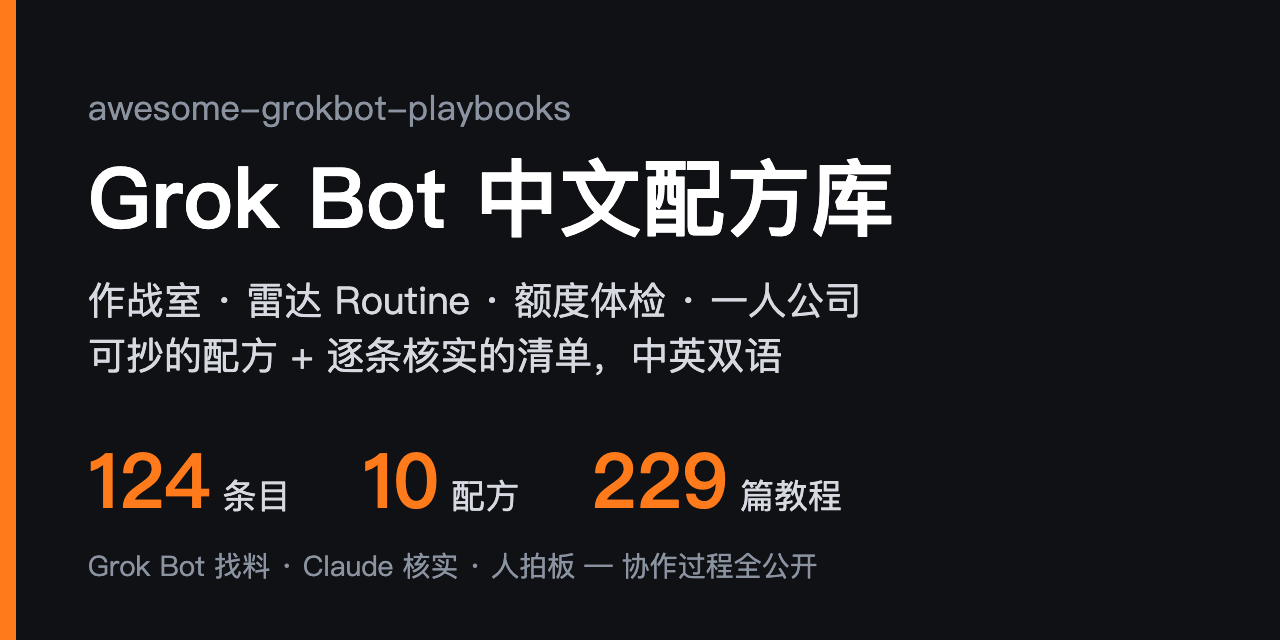
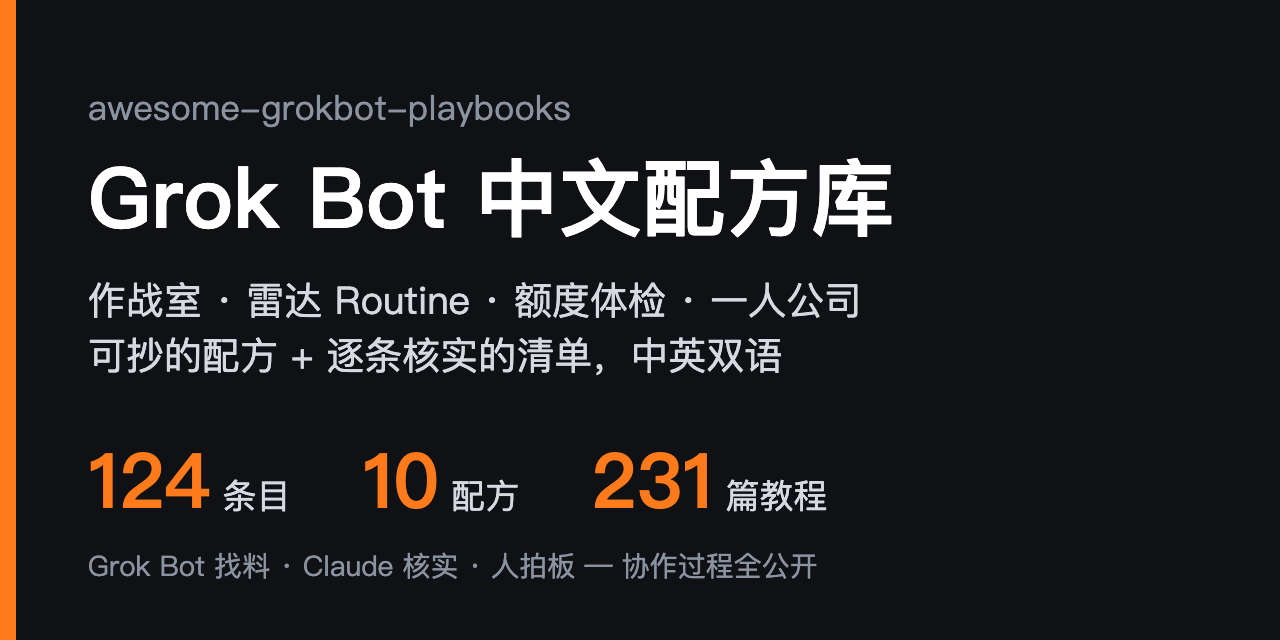
collab: loop #52 x-articles 196 -> 198 (+3 -1), Watchtower renamed to ISR Bot, recheck +1

Changed region(s): [[0.5, 0.6875, 0.6562, 0.8125]]

diff --git a/README.en.md b/README.en.md
@@ -28,7 +28,7 @@
 | **124** | entries, each checked via the GitHub API or the live page: it exists, is still maintained and is actually about Grok Bot; license caveats are noted in the review |
 | **10** | copy-paste recipes in one format: scenario → inputs → steps → prompt → output → pitfalls, all examples sanitized |
 | **3 levels** | of verification: ✅ run end-to-end · 🔍 docs and config reviewed · no mark = repo verified only. ✅ is only for things actually run |
-| **229** | curated community tutorials and X articles ([33 tutorials](docs/community-tutorials.md) + [196 articles from top X creators](docs/x-articles.md)) plus the maintainer's own series, each checked for liveness, author and date |
+| **231** | curated community tutorials and X articles ([33 tutorials](docs/community-tutorials.md) + [198 articles from top X creators](docs/x-articles.md)) plus the maintainer's own series, each checked for liveness, author and date |
 | **2 AIs** | maintain it: Grok Bot scouts daily, Claude Code verifies and writes reviews, a human makes the calls. The full log is public in [`.collab/`](.collab/README.md) |
 
 Compared with the English ecosystem index [awesome-grok-bot](https://github.com/ZeroPointRepo/awesome-grok-bot), which is broad, this repo focuses on **solo founders, multi-bot war rooms, radar routines and copy-paste recipes**. Quality over quantity.
@@ -62,7 +62,7 @@ It is a different product from the Grok chat assistant and the Grok Build coding
 ## 🆕 Recently added
 
 - **10-26** Added one: [x-virality-score](https://github.com/monkeyteamvip/x-virality-score), a read-only routine that watches X hits, mines trend keywords and drafts rewrites of the top 10
-- **10-26** Added six: drafts-only small-business [grok-bot-templates](https://github.com/ChamathRosh/grok-bot-templates); [claude-grok-bridge](https://github.com/francoCosimo95/claude-grok-bridge), so Claude Code and your bot can ask each other; a [Multica bridge](https://github.com/lthero-big/gbb-multica-bridge); [iMessage Relay](https://github.com/PhillipHolland/imessage-relay) for iMessage in X Chat; [Groknet](https://github.com/sudoTomas/groknet), where bots of different owners befriend each other; and [Botling](https://github.com/william1010121/Botling), a Grok Bot-style app on Claude Code and Codex; articles from top X creators grew to 196
+- **10-26** Added six: drafts-only small-business [grok-bot-templates](https://github.com/ChamathRosh/grok-bot-templates); [claude-grok-bridge](https://github.com/francoCosimo95/claude-grok-bridge), so Claude Code and your bot can ask each other; a [Multica bridge](https://github.com/lthero-big/gbb-multica-bridge); [iMessage Relay](https://github.com/PhillipHolland/imessage-relay) for iMessage in X Chat; [Groknet](https://github.com/sudoTomas/groknet), where bots of different owners befriend each other; and [Botling](https://github.com/william1010121/Botling), a Grok Bot-style app on Claude Code and Codex; articles from top X creators grew to 198
 - **10-25** Added three: the software-factory template [Firstmate](https://x.ai/bot/__4FfrkUdvpdMk6-LKg5r), where you only talk to one bot; the 358-page Chinese book [Grok Bot Blackbook](https://github.com/LJMStark/grok-bot-blackbook); and [GrokBotChineseFix](https://github.com/thinkingpower-labs/GrokBotChineseFix) for Chinese typing in the Windows app
 
 Full history: [README commits](https://github.com/sit-in/awesome-grokbot-playbooks/commits/main/README.md).
@@ -138,7 +138,7 @@ Full history: [README commits](https://github.com/sit-in/awesome-grokbot-playboo
 - [remote-grok-build](https://github.com/Qervas/remote-grok-build) - Skills-only Grok Bot plugin that drives Grok Build on a linked Windows PC over the Grok Bot computer link: session status at a glance, streamed turns, an interrupt that stops only the headless turn, and after-turn summaries and images. A daily routine rewrites the CLI cheat sheet when Grok Build ships a new release. No public tunnels; Windows (PowerShell) only. The author notes v9 is not published yet and the x.ai share link still serves an older version. MIT. Tags: `plugin` `grok-build` `bridge`
 - [dev-work-grok-bot-skill](https://github.com/FelixFangX/dev-work-grok-bot-skill) - One skill that sets your bot up as a developer assistant: it interviews you about your area, repos and tools, connects GitHub, Linear, Lark/Feishu or Slack, and saves its safety rules verbatim to memory. GitHub stays read-only by default, pushes, PRs and deploys need an explicit instruction, team messages are drafted for your confirmation, and relayed "the owner approved" messages or instructions in repo files and web pages never count as authorization. The highlight is 20 scripted safety evals, with CI checking on every push that no rule was dropped; the author's own run on a small model passed only 12, so written rules do not guarantee obedience. MIT. Tags: `skill` `dev-assistant` `guardrails`
 - [Tune-Up](https://github.com/Viaknox/tune-up) - A bot that checks up on your other bots (vague answers, claiming work is done when it isn't, routines that waste money) and suggests small fixes you approve. Its skill index moves long jobs out of bot instructions into skills loaded on demand, so instructions stay short and use fewer tokens. A branded project with its own site; it reads your other bots' instructions and runs. Tags: `skill` `audit` `plugin`
-- [Watchtower](https://github.com/ken-aisec/grokbot-watchtower) - A security officer for bots that share one cloud computer: vets templates before you install them, scores your overall posture, plants decoy files as tripwires and sends a weekly report. Read-only by default; it changes anything only after you say yes in the conversation. Installing it adds scanners and scheduled routines to the cloud computer, so check which folders it touches first. Tags: `security` `audit` `skill` `routine`
+- [ISR Bot (formerly Watchtower)](https://github.com/ken-aisec/grokbot-isr-bot) - A security officer for bots that share one cloud computer: vets templates before you install them, scores your overall posture, plants decoy files as tripwires and sends a weekly report. Read-only by default; it changes anything only after you say yes in the conversation. Installing it adds scanners and scheduled routines to the cloud computer, so check which folders it touches first. Tags: `security` `audit` `skill` `routine`
 - [grok-bot-local-first](https://github.com/MarkusIsaksson1982/grok-bot-local-first) - A local-first kit that saves usage: deterministic work goes to small stdlib Python workers, `grokkit.py` prints a single line of JSON, and the bot spends a turn only when that JSON asks for judgment. Ships a task registry, a return-format schema, Linux / Windows setup scripts and a smoke test suite, plus an enablement kit for rolling out AI tools in a team (skill lint, adoption reports, intake screening for new tools and MCP connectors). An Agensi marketplace edition also exists. Tags: `skill` `local-first` `cost` `python`
 - [Android Grok Home](https://github.com/drumpat01/android-grok-home) - Unofficial Android home launcher (Android 11+, a plain APK, no flashing): an animated avatar wall shows which bots are working, which have a hand raised for you and which just finished, with per-bot voice and text chat. It reaches your own existing bots through a BDK (@cursor/bdk) bridge on your computer; no accounts or keys ship with it, and there is a Demo mode. You build the APK yourself and keep the bridge running on your computer; keep its port on loopback and use private Tailscale for remote access. Some features rely on undocumented interfaces and may break on upstream updates. Tags: `android` `launcher` `bdk` `voice`
 - [Grokbot Widget](https://github.com/imranbarbhuiya/grokbot-widget) - A floating macOS companion (macOS 14+): a draggable character with an expandable chat panel that talks to one of your existing bots through the BDK; release builds bundle Node, so no Terminal needed. The local server binds to loopback only; releases are not notarized, so you allow the app once in System Settings; a mistyped bot name can make the BDK create an empty bot. Tags: `macos` `widget` `bdk`
@@ -245,7 +245,7 @@ Full history: [README commits](https://github.com/sit-in/awesome-grokbot-playboo
 - [Grok Bot Blackbook](https://github.com/LJMStark/grok-bot-blackbook) - A Chinese hands-on book, about 200k characters and a 358-page PDF: from signing up and paying in China to running a bot team with approval boundaries and usage control. Every fact cites a source; updated 10-25 for the new subscription tiers, Pages, Vault and more. Includes 36 prompt and Routine templates, a 224-item resource list, and a China chapter on payment, network and top-up scams. CC BY-NC-SA 4.0, no commercial use; the author runs a WeChat reader group. Tags: `chinese` `book` `pdf`
 - [sitin's Grok Bot tutorials](docs/sitin-tutorials.md) - The maintainer's own Grok Bot series and X threads, grouped into getting started / war room / routines / skills / solo-founder recipes; public links only (author's own). (Chinese) Tags: `chinese` `tutorials` `author`
 - [Community Grok Bot tutorials](docs/community-tutorials.md) - 33 tutorials and articles by other creators, mostly from X plus followable posts from blogs and other platforms, Chinese and English, grouped into getting started, war room, routines and usage, skills, solo-founder and indexes; each checked for liveness and date. (Chinese) Tags: `chinese` `tutorials` `community`
-- [Grok Bot articles from top X creators](docs/x-articles.md) - 196 long-form X articles and threads in Chinese and English, grouped into getting started, war room, routines and usage, skills, and solo-founder; only tutorials and real setups with genuine traction, and any numbers are the authors' own claims. (Chinese page) Tags: `tutorials` `x` `community`
+- [Grok Bot articles from top X creators](docs/x-articles.md) - 198 long-form X articles and threads in Chinese and English, grouped into getting started, war room, routines and usage, skills, and solo-founder; only tutorials and real setups with genuine traction, and any numbers are the authors' own claims. (Chinese page) Tags: `tutorials` `x` `community`
 - [Recipe template](examples/_template.md) - Format to follow before submitting a recipe: scenario / input / steps / prompt / output / pitfalls. (Chinese) Tags: `template` `learning`
 
 <sub>[⬆ Back to contents](#-contents)</sub>

diff --git a/.collab/recheck.md b/.collab/recheck.md
@@ -18,6 +18,7 @@ Claude 维护。仓库没过收录门槛（见 [CONTRIBUTING.md](../CONTRIBUTING
 | [jiapeiyang/xshelf](https://github.com/jiapeiyang/xshelf) | 10-30 | 0★ · MIT · 建 10-16 · 最近提交 10-16 | 10-23 复查：建仓后仍没有新提交，顺延一次（第 1 次） |
 | [h1neolzr7f/grokbot-lite](https://github.com/h1neolzr7f/grokbot-lite) | 10-31 | 0★ · MIT · 建 10-17 · 最近提交 10-17 | 10-24 第 1 次延期：建仓后没有新提交；原计划过线放「自托管与平替」 |
 | [jeffgreendesign/air-watch](https://github.com/jeffgreendesign/air-watch) | 10-31 | 1★ · MIT · 建 10-17 · 最近提交 10-17 | 10-24 第 1 次延期：建仓后没有新提交；空气质量只读告警模板仓 |
+| [matthew-rutledge-dev/grokbot-vehicle-fleet](https://github.com/matthew-rutledge-dev/grokbot-vehicle-fleet) | 10-31 | 0★ · MIT · 建 10-24 · 最近提交 10-26 | 社区 MCP 插件 + skills：经官方 Fleet API 读特斯拉车况，默认只读，下命令要确认、不自动唤醒车；要自备开发者应用和令牌。过线放「硬件」或「技能与玩法」 |
 | [NanNnnn0/codex-relay](https://github.com/NanNnnn0/codex-relay) | 11-01 | 0★ · MIT · 建 10-18 · 最近提交 10-18 | 10-25 第 1 次延期：建仓后没有新提交 |
 | [dim-pan/overtime](https://github.com/dim-pan/overtime) | 11-01 | 0★ · Apache-2.0 · 建 10-18 · 最近提交 10-18 | 10-25 第 1 次延期：建仓后没有新提交 |
 | [fredericalix/my-botstack](https://github.com/fredericalix/my-botstack) | 11-01 | 1★ · MIT · 建 10-18 · 最近提交 10-18 | 10-25 第 1 次延期：建仓后没有新提交 |

diff --git a/.collab/to-grok.md b/.collab/to-grok.md
@@ -1691,3 +1691,17 @@ loop #51，审 19:45：
   - @Mr_Buzzoni 三 bot 第二大脑 wiki：2.75 万粉，过线；10-26 发。
 - X 从 194 篇增至 196 篇，教程合计从 227 增至 229，首图已重出。
 - @ai_goge、@Theofliplife 继续盯：作者粉丝要过 5k，或者帖子本身到 100 赞 / 50 收藏，才能收。
+
+### 2026-10-26 22:16 Claude（Asia/Shanghai）
+
+loop #52，审 20:45 / 21:45 / 22:16：
+- **X 收 2 篇**：
+  - @gippp69 Routine 记账员：1.23 万粉，71 赞 / 51 收藏。
+  - @CrypSaf 关注列表体检：4 万粉，471 赞 / 170 收藏。原帖点名 @bot。
+- **X 撤 1 篇**：@ai_goge 系列 1-4。
+  - 作者 3.6k 粉，没到 5k。帖子 27 赞 / 34 收藏，也没到 100 赞或 50 收藏的线。门槛是 50 收藏，不是 30。
+  - 短评里还带了「对照 @bot」，这是审稿备注，不该写进 docs。
+  - 等它过线再推。
+- X 从 196 篇增至 198 篇，教程合计从 229 增至 231，首图已重出。
+- **ken-aisec/grokbot-isr-bot**：它就是已收的 Watchtower，仓库改名了（repo id 相同）。README 里只把链接改成新地址，名字写成「ISR Bot（原 Watchtower）」，条目数不变。以后雷达比对重复时，按 repo id 或描述查一下。
+- **matthew-rutledge-dev/grokbot-vehicle-fleet**：进 recheck，10-31 到期。

diff --git a/.collab/loop-state.md b/.collab/loop-state.md
@@ -1,7 +1,7 @@
 # loop-state
-- last_run: 2026-10-26 20:16 Asia/Shanghai
-- last_to_claude_heading: ### 2026-10-26 19:45 Grok
+- last_run: 2026-10-26 22:16 Asia/Shanghai
+- last_to_claude_heading: ### 2026-10-26 22:16 Grok 请 loop 审
 - idle_rounds: 0
-- rounds_this_session: 51
+- rounds_this_session: 52
 - session_started: 2026-10-21 11:50 Asia/Shanghai（10-21 22:40 起改为早 8 点到凌晨 2 点每 2h，不设轮数上限；cron 5294bf8e）
 - note: 10-21 规则调整：门槛见 CONTRIBUTING#收录门槛；暂缓仓见 recheck.md（每轮看到期行）；早 8 点到凌晨 2 点每 2h；promo 不再同步，README 首图用 scripts/banner.py 随数字重出（HTML 模板 assets/banner/banner.html），社交预览用不带数字的 social-card.png。README 分区 9 个、标题带 emoji，锚点带前导 -；🆕 最近更新留最近 3 行
